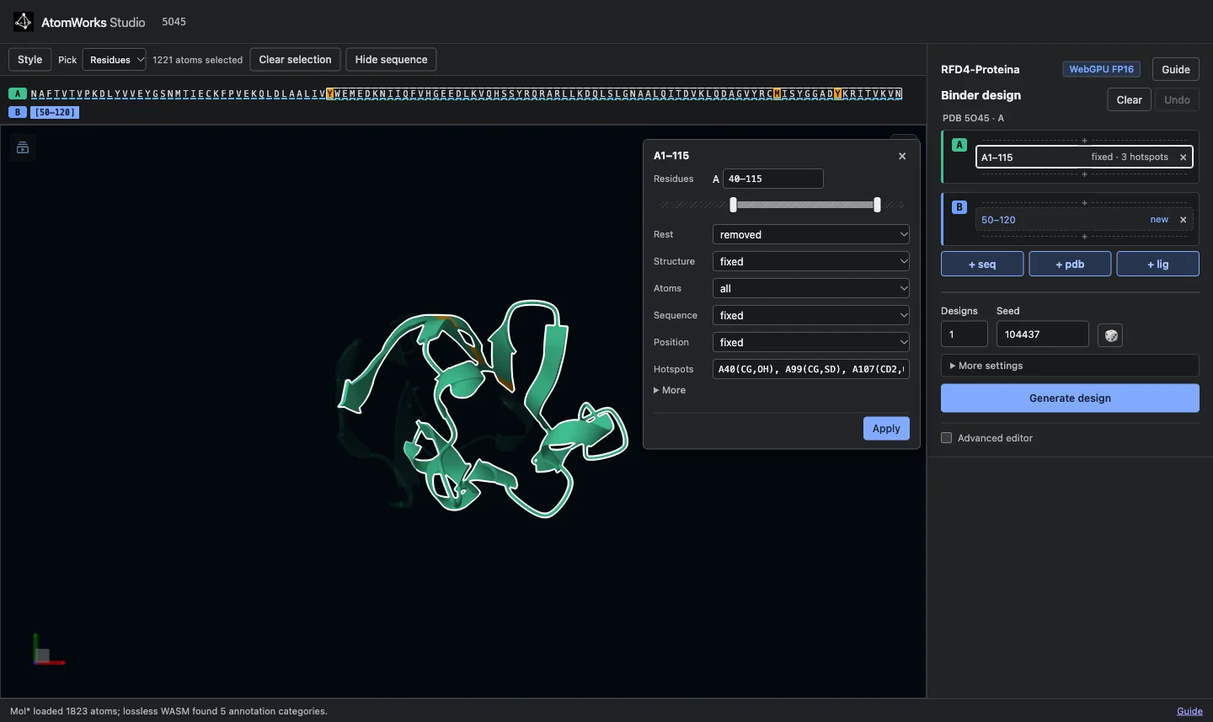
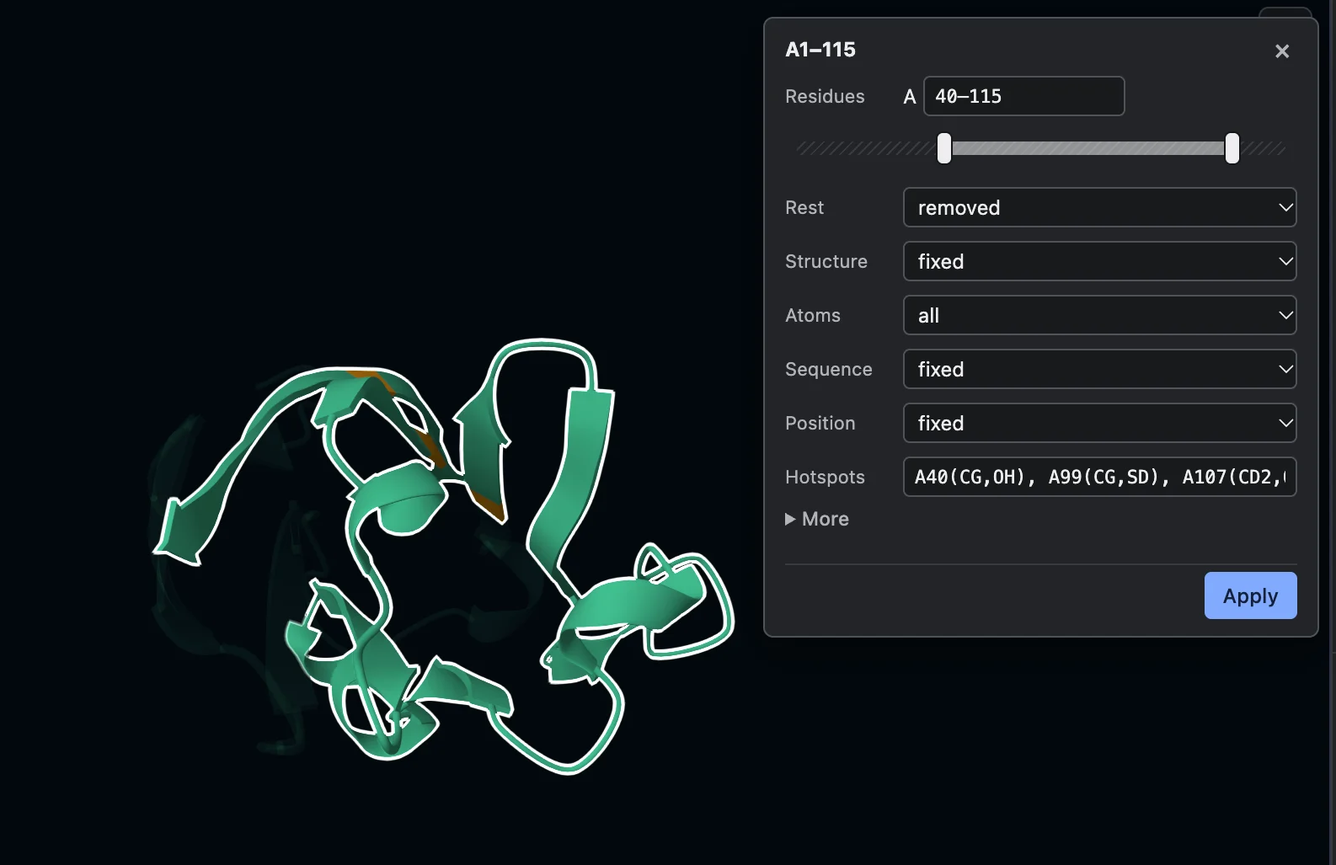
Guide shots cropped to what each section is about; motif shadow only for a small motif or residues placed anywhere

diff --git a/help/index.html b/help/index.html
@@ -42,7 +42,7 @@
   .swatch { display: inline-block; width: 12px; height: 12px; border-radius: 3px; vertical-align: -1px; margin-right: 6px; }
   figure { margin: 12px 0 16px; }
   figure img { display: block; width: 100%; height: auto; border: 1px solid var(--border); border-radius: 6px; }
-  figure.narrow img { max-width: 320px; }
+  figure.narrow img { max-width: 340px; }
   figcaption { margin-top: 6px; color: var(--muted); font-size: 13px; }
   .note { background: var(--surface); border: 1px solid var(--border); border-radius: 6px; padding: 10px 12px; font-size: 14px; }
   footer { margin-top: 48px; color: var(--muted); font-size: 13px; }
@@ -81,7 +81,7 @@
     <li>Chains are grouped under the structure they came from (<code>PDB 5O45 · A</code>); click that caption to swap the structure.</li>
     <li><span class="ui">Undo</span> steps back through every edit.</li>
   </ul>
-  <figure><img src="img/card.webp" alt="The protein binder example: PD-L1 in the viewer, its sequence above, and the card with chain A fixed with 3 hotspots and chain B as 50–120 new residues" loading="lazy"><figcaption>The binder example: the target kept with its hotspots (amber), a new chain of 50–120 residues to design.</figcaption></figure>
+  <figure class="narrow"><img src="img/card.webp" alt="The protein binder example: PD-L1 in the viewer, its sequence above, and the card with chain A fixed with 3 hotspots and chain B as 50–120 new residues" loading="lazy"><figcaption>The binder example's card: the target kept with three hotspots, a new chain of 50–120 residues to design.</figcaption></figure>
   <p>Every setting is <span class="ui">fixed</span> (kept as given) or <span class="ui">free</span> (the model decides).</p>
 
   <h2 id="pieces">Pieces</h2>
@@ -172,7 +172,7 @@
     <li><span class="ui">Save all (.zip)</span>: the input, every design with its trajectory, every refold, and the table as
       <code>summary.csv</code>.</li>
   </ul>
-  <figure><img src="img/designs.webp" alt="Three designs refolded and ranked in the Designs table" loading="lazy"><figcaption>Three designs from scratch, refolded and ranked: Design 1 passes (✓) and its refold (magenta) lies on it; the others are greyed out.</figcaption></figure>
+  <figure class="narrow"><img src="img/designs.webp" alt="Three designs refolded and ranked in the Designs table" loading="lazy"><figcaption>Three designs from scratch, refolded and ranked: Design 1 passes (✓); the others are greyed out.</figcaption></figure>
   <div class="table-wrap"><table>
     <tr><th>Column</th><th>Meaning</th><th>Better</th></tr>
     <tr><td>RMSD</td><td>Å between the design and its refold. For a binder or antibody, after fitting on the target, so where it sits counts.</td><td>lower</td></tr>

diff --git a/web/app.js b/web/app.js
@@ -210,6 +210,12 @@ function unmodelledTokens(inputAtoms) {
  * coordinate-conditioned is a target and is drawn by the frame itself. Placed on an unused chain id so it can never
  * share a residue key with the scaffold.
  */
+/**
+ * Whether a chain's held residues are a motif, worth showing against what the model builds: a few residues it scaffolds
+ * (1QJG's three), not a kept domain the job extends (6MRR and 100 new residues), whose shadow would only double it.
+ */
+const isSmallMotif = (fixed, total) => fixed > 0 && fixed < total && fixed <= total / 4;
+
 function buildMotifOverlayAtoms(inputAtoms) {
   if (!inputAtoms?.token_id || !inputAtoms.condition_coordinate_1_atom) return [];
   // Conditioned coordinates are centred in the batch; designs are shown in the input's frame, so the motif is too.
@@ -239,8 +245,9 @@ function buildMotifOverlayAtoms(inputAtoms) {
     if (tokenHasCrd.get(tid)) c.fixed += 1;
     chainTokens.set(chain, c);
   }
-  const isMotifToken = (tid) => tokenHasCrd.get(tid) &&
-    (!tokenIndexed.get(tid) || chainTokens.get(tokenChain.get(tid)).fixed < chainTokens.get(tokenChain.get(tid)).total);
+  // Residues placed anywhere always (an enzyme's catalytic tips); residues held in place only as a small motif.
+  const isMotifToken = (tid) => tokenHasCrd.get(tid) && (!tokenIndexed.get(tid)
+    || isSmallMotif(chainTokens.get(tokenChain.get(tid)).fixed, chainTokens.get(tokenChain.get(tid)).total));
   const used = new Set(tokenChain.values());
   const chainId = [...'MNOPQRSTUVWXYZ'].find((c) => !used.has(c)) ?? 'MOTIF';
   const out = [];
@@ -280,7 +287,7 @@ function motifSideChainAtoms(structureAtoms, skipTokens = new Set()) {
   }
   for (const tokens of chainTokens.values()) {
     const fixed = [...tokens].filter((t) => tokenFixed.get(t));
-    if (fixed.length < tokens.size) for (const t of fixed) motifTokens.add(t);
+    if (isSmallMotif(fixed.length, tokens.size)) for (const t of fixed) motifTokens.add(t);
   }
   if (!motifTokens.size) return [];
   return structureAtoms

diff --git a/index.html b/index.html
@@ -10,7 +10,7 @@
     <!-- This site serves the Studio bundle itself; its offline cache would pin stale assets on Pages. -->
     <meta name="atomworks-studio-service-worker" content="off" />
     <script src="https://cdnjs.cloudflare.com/ajax/libs/jszip/3.10.1/jszip.min.js"></script>
-    <link rel="stylesheet" href="./web/styles.css?v=88aa2bd1d9" />
+    <link rel="stylesheet" href="./web/styles.css?v=e1e9ade51c" />
     <!-- app.js first: its import of studio-api.js installs the /api/* fetch interceptor the Studio bundle boots against. -->
     <!-- module-versions:start (tools/stamp-modules.mjs) -->
     <script type="importmap">
@@ -38,7 +38,7 @@
           "./shared/rfd4p/presets.js": "./shared/rfd4p/presets.js?v=8db26644f7",
           "./shared/rfd4p/safetensors.js": "./shared/rfd4p/safetensors.js?v=816ee6d627",
           "./shared/rfd4p/vendor/fzstd.js": "./shared/rfd4p/vendor/fzstd.js?v=e6cdba40d4",
-          "./web/app.js": "./web/app.js?v=d387a5c921",
+          "./web/app.js": "./web/app.js?v=3d470bf159",
           "./web/design-panel.js": "./web/design-panel.js?v=59813db912",
           "./web/design-spec.js": "./web/design-spec.js?v=693bf27a92",
           "./web/guide-dialog.js": "./web/guide-dialog.js?v=df4c3ca412",
@@ -59,7 +59,7 @@
       }
     </script>
     <!-- module-versions:end -->
-    <script type="module" src="./web/app.js?v=d387a5c921"></script>
+    <script type="module" src="./web/app.js?v=3d470bf159"></script>
     <script type="module" crossorigin src="./assets/index-D56mv6bn.js"></script>
     <link rel="stylesheet" crossorigin href="./assets/index-CTn3vkIg.css">
   </head>

diff --git a/web/styles.css b/web/styles.css
@@ -1092,7 +1092,7 @@ body.rfd4p-building .rfd4p-piece-pop { visibility: hidden; }
 .rfd4p-guide-body .note { padding: 8px 10px; border: 1px solid var(--border, #383a3f); border-radius: 6px; font-size: 13px; }
 .rfd4p-guide-body figure { margin: 10px 0 14px; }
 .rfd4p-guide-body figure img { display: block; width: 100%; height: auto; border: 1px solid var(--border, #383a3f); border-radius: 6px; }
-.rfd4p-guide-body figure.narrow img { max-width: 300px; }
+.rfd4p-guide-body figure.narrow img { max-width: 340px; }
 .rfd4p-guide-body figcaption { margin-top: 4px; color: var(--muted); font-size: 12px; }
 .rfd4p-guide-body footer { margin-top: 28px; color: var(--muted); font-size: 12px; }
 

diff --git a/AGENTS.md b/AGENTS.md
@@ -21,7 +21,7 @@ Operational guide for coding agents working in `rfd4p` (WebGPU implementation of
    - `cpu/rfd4p/`: Deterministic float32 CPU reference implementations (`trunk.js`, `decoder.js`, `encoder.js`, `reference.js`).
    - `webgpu/rfd4p/`: Recorded-command-list WebGPU engine (`engine.js` with `64x128` and `32x64` bank-conflict-free `vec4` GEMMs, `16x16` `triGate`, 64M-float triangle chunking, and FP16 weight packing), shared token blocks (`blocks.js`), `Rfd4pTrunkGpu` (`trunk.js`), `Rfd4pDecoderGpu` (`decoder.js`), `Rfd4pEncoderGpu` (`encoder.js`), and `Rfd4pGeneratorGpu` (`generate.js`).
    - `web/`: Interactive browser studio (`index.html`, `web/app.js`, `web/studio-api.js`, `web/studio/`, `web/examples/*.cif.zst`) embedding the `nvidia/rfd4-proteina-zerogpu` / `AtomWorks Studio` interface (Mol* WebGL 3D viewer, sequence dock, condition popovers, live trajectory playback, and PDB/mmCIF/ZIP export) backed 100% client-side by WebGPU.
-   - `web/design-spec.js` (pure: task, chain roles, lengths and contig read from a document's conditions; tested in `test/design-spec.test.js`) and `web/design-panel.js` (start screen, Design panel, guided set-ups, simple/advanced switch). The panel lists each chain piece by piece in contig order (`designSpec(...).chains[].pieces`): `kept` (with a keep mode from `KEEP_MODES`: all, sequence, backbone, side chains, shape only; `anywhere` when unindexed; `source` when a set-up renumbered it), `designed` (in place) and `new` (a length range). Chains are grouped by where their coordinates come from (`_sourceGroups`: "PDB 1QJG", "PDB 5O45 chain A", "Nanobody (VHH) example"), one muted caption per source; clicking a caption opens the + pdb form to replace that source's chains; chains are listed in the job's order (the sequence bar's, which is the order they were added), chains made here (+ seq, + lig) uncaptioned in place. Each piece is a sub-card in its chain (chain letter on the left; the chain's × there once it has more than one item), residues (or a new piece's length) on the left and its state on the right ("A17–131 · fixed · 3 hotspots", "H99–109 · designed", "50–120 · new"), its own × to remove it; a "+" between sub-cards (not next to new residues) inserts 5–10 new residues there. Every option in the popups is fixed or free (free: the model decides; the internal values stay 'designed' and 'anywhere'), and every list ends with "free", Shape, Exposure, Interaction and Fold included; a ligand's pose is its Structure too. A residue popup (a sub-card's, or residues picked in the viewer or the sequence bar) shows, in front, its residue range (a sub-card's), Structure (fixed, rigid, free) with the Atoms it holds (all, backbone, side chains, or named: "CG, OD1"), Sequence (fixed, free) and Position in chain (fixed, free: an unindexed residue), with Structure and Sequence both free Length in Position's place, and a sub-card's Hotspots, the rest under More (`_moreFold`: Shape, Exposure, Interaction, and a sub-card's Keep only); there are no one-click buttons (they set four things at once and could not say "structure fixed, sequence free"). A sub-card's click also selects its residues in Studio while its popup is open (`_selectFromCard`, not the viewer's popup). A sub-card's Residues take one range or several ("1–40, 60–115"); once narrowed, Rest says what happens to the piece's residues outside them (removed, the default; free; unchanged, for changing part of a piece), the gaps between ranges are free, and Between gives them a length range, turning each into new residues (so a fetched chain is cut to a domain, or to two regions with a variable linker, in one popup); a Length other than the residue count turns them into new residues (`/segments/replace`), and the document remembers the residues they replaced (`segmentOrigins`, this page only; `segmentOrigin`, `restoreSegment`, `/segments/restore`; `test/segment-restore.test.js`): the new-residues popup then shows "was 7" beside Length and a Structure and Sequence, and the old count, or a fixed or rigid Structure or a fixed Sequence, brings them back in place with their coordinates and conditions, in one Undo; with partial diffusion ticked, its warning about new residues offers the same for all of them ("Back to the residues they replaced"), since partial diffusion starts from coordinates. A piece of a loaded chain has a crop bar under its Residues (`_cropBar`): the chain as it was loaded (`chainSources`, kept by a plain structure's `StudioDoc` and carried by `combine` and a chain rename; `sourceResidues`), the piece's ranges on it, the chain's other residues muted, a handle at each end; dragging in crops (Rest), dragging out brings residues back, up to the neighbouring piece and never past new residues (`restoreFromSource`, `/residues/restore`: as loaded, then given the popup's settings, those in gaps free). It only edits the Residues field, so typing a range past the piece does the same. As the ranges change (dragged or typed), the structure previews them (`_previewCut`): residues to be cut nearly vanish (`setHighlight('cut', …)`), those to be freed fade as free ones do, and only the residues kept stay selected; closing the popup clears it. Opening a sub-card's popup also brings its residues to the middle of the view, the zoom kept (`centerOn`, fork 12c2b78). Residues the model rebuilds (no atom held, not rigid) are faded in the input structure (`setHighlight('free', …, { transparency })`, fork f7a02ee), except with partial diffusion ticked, where they are its starting point. Hotspots (the chain's, from any of its pieces; a residue may name its atoms, "A56(CG,OH)", `parseResidueList`) and, under More, Keep only (the motif set-up, `/segments/scaffold`; the residues are kept in the order typed, "A38, A14, A99" reorders the motif and renumbers the chain as AtomWorks does, `_orderMotif`, each kept residue keeping its source ("A38", `annotation_src-component_1_atom`, display only: the pipeline rewrites it) so the card still names it by the entry; the kept residues take the popup's properties, so trimming an antibody chain and making it "rigid" is one popup). "Rigid" is one rigid group per source structure (`/internal-coords` `group_id`, `_rigidGroup(chain)`: chains from the same entry share a body), so an antibody's heavy and light frameworks keep their pairing and move as one, as upstream's current antibody example (Studio 0.0.6, MZB1/adalimumab Fv) and the model repo's VHH inputs are set (the Oct 19 example the demo Space ships had them as two bodies, since replaced), a framework split by CDRs moves as one, and chains from different entries move apart, and its saved targets are cleared (`/internal-coords/clear-targets`): the pipeline centres the body and turns it at random when the job is built (`materializeInternalCoords`), as AtomWorks does and the bundled examples are saved. A residue fixed "anywhere" with only some atoms held keeps only those atoms' coordinates, held atoms first in the residue (`/coordinates/clear`; a token is read from its first atom), as an enzyme benchmark's catalytic tips are given. Residues can be brought back from their source entry next to their neighbours (`/residues/insert`, `insertResiduesFrom`: one Undo, peptide and new-residue bonds rebuilt, an ordered motif's chain renumbered; `test/residue-insert.test.js`); nothing in the card uses it yet (a residue strip did, and was taken out for now). The chain letter opens the chain's popup: its name (`/chains`), its place in the job (`/chains/order`), which the model reads (chain and molecule ids, noise draws), and a fold for it (CATH, `cath_label`, `_foldField`: named folds such as ferredoxin-like 3.30.70, Rossmann-like 3.40.50, helix bundle 1.10, or any code; a new chain's is set on its new residues, which each take it; also in the new-residues popup, where a new chain is laid out). Superposition (`superimposeCoords3D`) is a rotation, never a reflection (`test/handedness.test.js`): it used to mirror whenever its eigenvectors came out left-handed, and a design with nothing held in place, aligned onto its first (noise) frame, was then shown as its mirror image, every helix left-handed, about half the time; the model's own estimate was right-handed throughout. A residue placed anywhere is read against all its atoms (`heldAtomsOf`, `allHeavyNames`), since only its held atoms keep coordinates, so its row names them ("A250 CG, OD1 fixed · position free"); a glycine joins a named-atoms or side-chain run it sits in, and an interaction is asked of each residue's side chain, or its CA when it has none. Under More, residues can also be asked a Shape (secondary structure: helix, strand, loop), an Exposure (RASA: buried, intermediate, exposed) and an Interaction their side chains (or the atoms named) should make (H-bond donor/acceptor, salt bridge, π-stacking, π-cation, hydrophobic, metal-coordinating) (`_extraFields`); new residues take Shape and Exposure. These were Advanced-editor only; pieces split where they differ and rows name them ("A20–30 designed · helix"). Residues selected in the viewer or the sequence bar open a shorter popup for the selection (`_renderPop`): Structure and Sequence ("mixed" where the selected pieces differ, left as each piece has it), Length for one free stretch, Hotspot and Include checkboxes (unticked, the selection is taken out of the job on Apply) and a ligand's Structure, with Atoms, Position, Shape, Exposure and Interaction under More (a pick shows little at first), so fixed regions are grown, shrunk, freed or cut from the structure itself (a motif by hand: pick the residues around it, Structure and Sequence free, a Length); several pieces change in one edit (`_applyPieces`), one Undo. Ligands: Structure fixed or free, swap. New residues: Length, Shape, Exposure and the chain's Fold. More folds only four rows or more; fewer are shown as they are (`_moreFold`). Popups close with the × in their title (top right; a viewer pick's also lets go of the selection), Escape or a click outside, and move by their title bar (`_movable`): once moved, every popup opens where the last was left, kept on screen, until a reload (`popSpot`); Apply sits at the bottom, always in sight. A "+" sits between any two pieces and at both ends, new residues included, so a free chain is built as blocks of different lengths and shapes (20 helix · 6 loop · 20 strand). New residues inserted inside a chain do not renumber it: with no numbering gap the placeholder takes the residue before's number plus an insertion code (`insertSegment`, "40A"), and `realizeExpandableSegments` numbers past it, so the batch and the design are numbered exactly as the old renumber-the-rest rule made them (`test/insert-numbering.test.js`). A design therefore numbers residues after an insertion further along than the input; hotspots on designs are matched through each sample's batch atoms for that reason. A plain structure (PDB ID, optionally with the chains to keep, "1J79 A C E"; a file; "+ pdb") opens with everything fixed, without buffer ions (NA, CL, on top of AtomWorks' additive list) and with its ligands' formal charges from the CCD (RCSB entries list their components' atoms without charges, `componentsNeedingCcd`); a prepared document drops the file's text (`rawCif`), so its CIF, for the viewer and for a run, is the prepared one from the first frame (`StudioDoc`, rcsb preset; `test/fetch-defaults.test.js`), so a set-up starts from what was loaded and marks what to design; Keep only takes the popup's Structure, Atoms and Position (CG, OD1 + anywhere is an enzyme site), and ticking partial diffusion with nothing designed frees every chain. "Blueprint" draws a ferredoxin-like fold as blocks (β 6 · loop 3 · α 14 · loop 3 · β 6 · loop 3 · β 6 · loop 3 · α 14 · loop 3 · β 6) from the bundled empty chain (`start`, `blocks` steps; no download); a design follows it (helix blocks Cα i→i+3 5.1 Å and right-handed, strands 10 Å). The start screen starts a job from its parts with the design view's own row, + seq (a free chain of 60–100, from the bundled empty chain), + pdb (the PDB ID / file form) and + lig (a ligand by its code), each opening a new document (`_startNew`), and under it the Examples (a heading, not a question: nothing there has to be picked). Start-screen examples are recipes (`TASKS[].recipe`): each fetches its PDB entry (5O45, 1XVA, 1QJG, 1J79, 1N8Z, 4Z18 + 3EAK, 2KL8, in label numbering; an entry's chains come from its first biological assembly that has them, `_openEntry`) and reproduces the bundled Studio example of the same name in everything the model reads (batch features compared tensor by tensor; the motif is identical, the antibody too but for two deliberate changes, its heavy and light chains one rigid body and their fold Ig-like (CATH 2.60.40, recipe `{ chain, fold }`), as upstream's examples now are; both 2KL8 examples keep residues 1–79 (all of it but the His tag), where the bundled file drops 8–27, a bug in it; the rest differ only where the bundled file's coordinates did not come from the deposited entry: the binder's rebuilt side chains, the SAM conformer, the nanobody framework's saved orientation, and 0.001 Å rounding in the enzyme) and builds the set-up with the card's own controls in a session Studio does not show (`_buildRecipe`: `buildSession`, whose edits go straight to `handleStudioApiRequest`, so the viewer is not redrawn per step; popups hidden by `body.rfd4p-building`), then opens it once, finished, with no Undo history; offline, the bundled Studio example opens instead ("Protein from scratch" always does). Source captions read "PDB 5O45 · A" (entry and its chains in the job; the entry's `_struct.title` when pointed at). Designs and live frames are put back in the input's frame (the pipeline centres the conditioned coordinates for the model and records `center_shift`; `processSampleToAtoms` adds it back after aligning), so a fetched target does not jump when a run starts. During a run the hotspot highlight follows the job's numbering (`app.liveHotspotKeys`, res_id past any new residues), since live frames are numbered that way. Otherwise hotspots are highlighted in the viewer by `auth_seq_id`, which is how the document's CIF numbers residues for Mol* (a fetched entry keeps its authors' numbering there; `res_id` is the label numbering). There are no separate guided set-ups; partial diffusion is a line under the run settings' More settings, which open whenever it is turned on, so it is never on out of sight (one control: the checkbox and its noise %, 40% by default, `partial_trajectory_fraction_steps` 0.4 as upstream's Space runs its partial-diffusion example). A job whose every chain keeps its backbone with its sequence free (the card's "Redesign sequence", `task.key === 'inverse'`) runs the inverse-folding sampler (`resampled_forward_marginal`), as the Space does for that task (`generation=inverse_folding`): the backbone comes back as given (Cα within 0.02 Å), only sequence and side chains sampled. The encoder treats an atom without coordinates (a side chain an entry did not resolve) as absent (`encoderSeqFeatures`), or its NaN reached every latent and partial diffusion of such an entry (6MRR) gave a design with no atoms. Hotspots are a chip on a kept piece (`parseResidueList` / `formatResidueList`). Ligands are added ("+ lig") or swapped (a ligand's Edit menu) by their CCD code: `web/ligand-ccd.js` turns the dictionary entry's ideal coordinates into a one-residue mmCIF, merged in with its pose free. "+ seq", "+ pdb" and "+ lig" add a designed chain, chains from a PDB entry or file, or a ligand; merged in as kept chains through `/combine` (a source caption replaces that source instead), so an example is edited the same way a set-up is built from scratch. The panel edits documents only through `window.__rfd4pMutate`, so Undo and Studio refreshes work as for Studio's own edits.
+   - `web/design-spec.js` (pure: task, chain roles, lengths and contig read from a document's conditions; tested in `test/design-spec.test.js`) and `web/design-panel.js` (start screen, Design panel, guided set-ups, simple/advanced switch). The panel lists each chain piece by piece in contig order (`designSpec(...).chains[].pieces`): `kept` (with a keep mode from `KEEP_MODES`: all, sequence, backbone, side chains, shape only; `anywhere` when unindexed; `source` when a set-up renumbered it), `designed` (in place) and `new` (a length range). Chains are grouped by where their coordinates come from (`_sourceGroups`: "PDB 1QJG", "PDB 5O45 chain A", "Nanobody (VHH) example"), one muted caption per source; clicking a caption opens the + pdb form to replace that source's chains; chains are listed in the job's order (the sequence bar's, which is the order they were added), chains made here (+ seq, + lig) uncaptioned in place. Each piece is a sub-card in its chain (chain letter on the left; the chain's × there once it has more than one item), residues (or a new piece's length) on the left and its state on the right ("A17–131 · fixed · 3 hotspots", "H99–109 · designed", "50–120 · new"), its own × to remove it; a "+" between sub-cards (not next to new residues) inserts 5–10 new residues there. Every option in the popups is fixed or free (free: the model decides; the internal values stay 'designed' and 'anywhere'), and every list ends with "free", Shape, Exposure, Interaction and Fold included; a ligand's pose is its Structure too. A residue popup (a sub-card's, or residues picked in the viewer or the sequence bar) shows, in front, its residue range (a sub-card's), Structure (fixed, rigid, free) with the Atoms it holds (all, backbone, side chains, or named: "CG, OD1"), Sequence (fixed, free) and Position in chain (fixed, free: an unindexed residue), with Structure and Sequence both free Length in Position's place, and a sub-card's Hotspots, the rest under More (`_moreFold`: Shape, Exposure, Interaction, and a sub-card's Keep only); there are no one-click buttons (they set four things at once and could not say "structure fixed, sequence free"). A sub-card's click also selects its residues in Studio while its popup is open (`_selectFromCard`, not the viewer's popup). A sub-card's Residues take one range or several ("1–40, 60–115"); once narrowed, Rest says what happens to the piece's residues outside them (removed, the default; free; unchanged, for changing part of a piece), the gaps between ranges are free, and Between gives them a length range, turning each into new residues (so a fetched chain is cut to a domain, or to two regions with a variable linker, in one popup); a Length other than the residue count turns them into new residues (`/segments/replace`), and the document remembers the residues they replaced (`segmentOrigins`, this page only; `segmentOrigin`, `restoreSegment`, `/segments/restore`; `test/segment-restore.test.js`): the new-residues popup then shows "was 7" beside Length and a Structure and Sequence, and the old count, or a fixed or rigid Structure or a fixed Sequence, brings them back in place with their coordinates and conditions, in one Undo; with partial diffusion ticked, its warning about new residues offers the same for all of them ("Back to the residues they replaced"), since partial diffusion starts from coordinates. A piece of a loaded chain has a crop bar under its Residues (`_cropBar`): the chain as it was loaded (`chainSources`, kept by a plain structure's `StudioDoc` and carried by `combine` and a chain rename; `sourceResidues`), the piece's ranges on it, the chain's other residues muted, a handle at each end; dragging in crops (Rest), dragging out brings residues back, up to the neighbouring piece and never past new residues (`restoreFromSource`, `/residues/restore`: as loaded, then given the popup's settings, those in gaps free). It only edits the Residues field, so typing a range past the piece does the same. As the ranges change (dragged or typed), the structure previews them (`_previewCut`): residues to be cut nearly vanish (`setHighlight('cut', …)`), those to be freed fade as free ones do, and only the residues kept stay selected; closing the popup clears it. Opening a sub-card's popup also brings its residues to the middle of the view, the zoom kept (`centerOn`, fork 12c2b78). During a run and on a finished design, the held coordinates of a motif are drawn as a grey reference (`buildMotifOverlayAtoms`, `motifSideChainAtoms`): residues placed anywhere always, residues held in place only when they are a quarter of their chain or less (`isSmallMotif`: 1QJG's three, not a kept domain extended by new residues, which would only be drawn twice). Residues the model rebuilds (no atom held, not rigid) are faded in the input structure (`setHighlight('free', …, { transparency })`, fork f7a02ee), except with partial diffusion ticked, where they are its starting point. Hotspots (the chain's, from any of its pieces; a residue may name its atoms, "A56(CG,OH)", `parseResidueList`) and, under More, Keep only (the motif set-up, `/segments/scaffold`; the residues are kept in the order typed, "A38, A14, A99" reorders the motif and renumbers the chain as AtomWorks does, `_orderMotif`, each kept residue keeping its source ("A38", `annotation_src-component_1_atom`, display only: the pipeline rewrites it) so the card still names it by the entry; the kept residues take the popup's properties, so trimming an antibody chain and making it "rigid" is one popup). "Rigid" is one rigid group per source structure (`/internal-coords` `group_id`, `_rigidGroup(chain)`: chains from the same entry share a body), so an antibody's heavy and light frameworks keep their pairing and move as one, as upstream's current antibody example (Studio 0.0.6, MZB1/adalimumab Fv) and the model repo's VHH inputs are set (the Oct 19 example the demo Space ships had them as two bodies, since replaced), a framework split by CDRs moves as one, and chains from different entries move apart, and its saved targets are cleared (`/internal-coords/clear-targets`): the pipeline centres the body and turns it at random when the job is built (`materializeInternalCoords`), as AtomWorks does and the bundled examples are saved. A residue fixed "anywhere" with only some atoms held keeps only those atoms' coordinates, held atoms first in the residue (`/coordinates/clear`; a token is read from its first atom), as an enzyme benchmark's catalytic tips are given. Residues can be brought back from their source entry next to their neighbours (`/residues/insert`, `insertResiduesFrom`: one Undo, peptide and new-residue bonds rebuilt, an ordered motif's chain renumbered; `test/residue-insert.test.js`); nothing in the card uses it yet (a residue strip did, and was taken out for now). The chain letter opens the chain's popup: its name (`/chains`), its place in the job (`/chains/order`), which the model reads (chain and molecule ids, noise draws), and a fold for it (CATH, `cath_label`, `_foldField`: named folds such as ferredoxin-like 3.30.70, Rossmann-like 3.40.50, helix bundle 1.10, or any code; a new chain's is set on its new residues, which each take it; also in the new-residues popup, where a new chain is laid out). Superposition (`superimposeCoords3D`) is a rotation, never a reflection (`test/handedness.test.js`): it used to mirror whenever its eigenvectors came out left-handed, and a design with nothing held in place, aligned onto its first (noise) frame, was then shown as its mirror image, every helix left-handed, about half the time; the model's own estimate was right-handed throughout. A residue placed anywhere is read against all its atoms (`heldAtomsOf`, `allHeavyNames`), since only its held atoms keep coordinates, so its row names them ("A250 CG, OD1 fixed · position free"); a glycine joins a named-atoms or side-chain run it sits in, and an interaction is asked of each residue's side chain, or its CA when it has none. Under More, residues can also be asked a Shape (secondary structure: helix, strand, loop), an Exposure (RASA: buried, intermediate, exposed) and an Interaction their side chains (or the atoms named) should make (H-bond donor/acceptor, salt bridge, π-stacking, π-cation, hydrophobic, metal-coordinating) (`_extraFields`); new residues take Shape and Exposure. These were Advanced-editor only; pieces split where they differ and rows name them ("A20–30 designed · helix"). Residues selected in the viewer or the sequence bar open a shorter popup for the selection (`_renderPop`): Structure and Sequence ("mixed" where the selected pieces differ, left as each piece has it), Length for one free stretch, Hotspot and Include checkboxes (unticked, the selection is taken out of the job on Apply) and a ligand's Structure, with Atoms, Position, Shape, Exposure and Interaction under More (a pick shows little at first), so fixed regions are grown, shrunk, freed or cut from the structure itself (a motif by hand: pick the residues around it, Structure and Sequence free, a Length); several pieces change in one edit (`_applyPieces`), one Undo. Ligands: Structure fixed or free, swap. New residues: Length, Shape, Exposure and the chain's Fold. More folds only four rows or more; fewer are shown as they are (`_moreFold`). Popups close with the × in their title (top right; a viewer pick's also lets go of the selection), Escape or a click outside, and move by their title bar (`_movable`): once moved, every popup opens where the last was left, kept on screen, until a reload (`popSpot`); Apply sits at the bottom, always in sight. A "+" sits between any two pieces and at both ends, new residues included, so a free chain is built as blocks of different lengths and shapes (20 helix · 6 loop · 20 strand). New residues inserted inside a chain do not renumber it: with no numbering gap the placeholder takes the residue before's number plus an insertion code (`insertSegment`, "40A"), and `realizeExpandableSegments` numbers past it, so the batch and the design are numbered exactly as the old renumber-the-rest rule made them (`test/insert-numbering.test.js`). A design therefore numbers residues after an insertion further along than the input; hotspots on designs are matched through each sample's batch atoms for that reason. A plain structure (PDB ID, optionally with the chains to keep, "1J79 A C E"; a file; "+ pdb") opens with everything fixed, without buffer ions (NA, CL, on top of AtomWorks' additive list) and with its ligands' formal charges from the CCD (RCSB entries list their components' atoms without charges, `componentsNeedingCcd`); a prepared document drops the file's text (`rawCif`), so its CIF, for the viewer and for a run, is the prepared one from the first frame (`StudioDoc`, rcsb preset; `test/fetch-defaults.test.js`), so a set-up starts from what was loaded and marks what to design; Keep only takes the popup's Structure, Atoms and Position (CG, OD1 + anywhere is an enzyme site), and ticking partial diffusion with nothing designed frees every chain. "Blueprint" draws a ferredoxin-like fold as blocks (β 6 · loop 3 · α 14 · loop 3 · β 6 · loop 3 · β 6 · loop 3 · α 14 · loop 3 · β 6) from the bundled empty chain (`start`, `blocks` steps; no download); a design follows it (helix blocks Cα i→i+3 5.1 Å and right-handed, strands 10 Å). The start screen starts a job from its parts with the design view's own row, + seq (a free chain of 60–100, from the bundled empty chain), + pdb (the PDB ID / file form) and + lig (a ligand by its code), each opening a new document (`_startNew`), and under it the Examples (a heading, not a question: nothing there has to be picked). Start-screen examples are recipes (`TASKS[].recipe`): each fetches its PDB entry (5O45, 1XVA, 1QJG, 1J79, 1N8Z, 4Z18 + 3EAK, 2KL8, in label numbering; an entry's chains come from its first biological assembly that has them, `_openEntry`) and reproduces the bundled Studio example of the same name in everything the model reads (batch features compared tensor by tensor; the motif is identical, the antibody too but for two deliberate changes, its heavy and light chains one rigid body and their fold Ig-like (CATH 2.60.40, recipe `{ chain, fold }`), as upstream's examples now are; both 2KL8 examples keep residues 1–79 (all of it but the His tag), where the bundled file drops 8–27, a bug in it; the rest differ only where the bundled file's coordinates did not come from the deposited entry: the binder's rebuilt side chains, the SAM conformer, the nanobody framework's saved orientation, and 0.001 Å rounding in the enzyme) and builds the set-up with the card's own controls in a session Studio does not show (`_buildRecipe`: `buildSession`, whose edits go straight to `handleStudioApiRequest`, so the viewer is not redrawn per step; popups hidden by `body.rfd4p-building`), then opens it once, finished, with no Undo history; offline, the bundled Studio example opens instead ("Protein from scratch" always does). Source captions read "PDB 5O45 · A" (entry and its chains in the job; the entry's `_struct.title` when pointed at). Designs and live frames are put back in the input's frame (the pipeline centres the conditioned coordinates for the model and records `center_shift`; `processSampleToAtoms` adds it back after aligning), so a fetched target does not jump when a run starts. During a run the hotspot highlight follows the job's numbering (`app.liveHotspotKeys`, res_id past any new residues), since live frames are numbered that way. Otherwise hotspots are highlighted in the viewer by `auth_seq_id`, which is how the document's CIF numbers residues for Mol* (a fetched entry keeps its authors' numbering there; `res_id` is the label numbering). There are no separate guided set-ups; partial diffusion is a line under the run settings' More settings, which open whenever it is turned on, so it is never on out of sight (one control: the checkbox and its noise %, 40% by default, `partial_trajectory_fraction_steps` 0.4 as upstream's Space runs its partial-diffusion example). A job whose every chain keeps its backbone with its sequence free (the card's "Redesign sequence", `task.key === 'inverse'`) runs the inverse-folding sampler (`resampled_forward_marginal`), as the Space does for that task (`generation=inverse_folding`): the backbone comes back as given (Cα within 0.02 Å), only sequence and side chains sampled. The encoder treats an atom without coordinates (a side chain an entry did not resolve) as absent (`encoderSeqFeatures`), or its NaN reached every latent and partial diffusion of such an entry (6MRR) gave a design with no atoms. Hotspots are a chip on a kept piece (`parseResidueList` / `formatResidueList`). Ligands are added ("+ lig") or swapped (a ligand's Edit menu) by their CCD code: `web/ligand-ccd.js` turns the dictionary entry's ideal coordinates into a one-residue mmCIF, merged in with its pose free. "+ seq", "+ pdb" and "+ lig" add a designed chain, chains from a PDB entry or file, or a ligand; merged in as kept chains through `/combine` (a source caption replaces that source instead), so an example is edited the same way a set-up is built from scratch. The panel edits documents only through `window.__rfd4pMutate`, so Undo and Studio refreshes work as for Studio's own edits.
    - AtomWorks Studio is **not vendored**. `studio.json` pins the release; `npm run build:studio` downloads that bundle, verifies its sha256, copies it into `assets/` and composes `index.html` from Studio's own page plus the two fragments this repo owns (`web/page/head.html`, `web/page/card.html`). Never hand-edit `assets/` or `index.html` — both are build output. Live frames, overlays, sessions, edits, the selection, chain colours and live mode go through Studio's documented embedding API, `window.atomworksStudio`. To try an unreleased Studio: `npm run build:studio -- --from <path-to-bundle>`. **Right now the site runs an unreleased Studio**: `studio.json` `override` names the commit (sokrypton/atomworks-studio `live-frame-cartoon`: cartoon overlays, RosettaCommons/atomworks-studio#29, live frames drawn as cartoon plus ligands, `setHighlight`, which the panel uses to colour hotspots in the target's own cartoon, Show/Hide sequence in the viewer toolbar with no sequence-dock heading, `setSelection`, and residue picking by default with a clicked residue shown on its own: Mol*'s focus without its 5 Å surroundings, interactions or camera jump, and following the selection, so deselecting leaves no sticks behind (whole residues selected are only outlined on the cartoon; atoms picked show their residues in sticks, c17a919), and `closeDocument`, which Clear uses to empty the viewer and the sequence without a reload or a confirmation, keeping the session for Back, and `setHighlight` with a `transparency`, which fades residues instead of colouring them, and `centerOn`, which pans the view to atoms), and `build:studio` refuses a plain release rebuild until `override` is removed after a release contains it.
    - Guide: `help/index.html` is this site's guide (start, the card, pieces, picking, chains, colours, running, Designs, examples, words), a page of its own and, through `web/guide-dialog.js`, a popup over the designer (the card's Guide button and the footer's Guide link); Studio's own guide stays at `guide/`, linked from it. Its screenshots (`help/img/*.webp`) come from `node tools/guide-shots.mjs [scene]` (headless Chrome over its DevTools protocol, each scene set up through the page; `designs` runs the model and an OpenBind-0 refold). Change the guide, and retake the shots, when the interface changes.
    - Designs (`web/app.js` `_renderDesigns`): every design of the runs on the current input is a row of one table (Input first; each new run's designs numbered on from the last, earlier runs kept and folded away under "Run n · seeds"; a different input starts over), each with ⟳ (refold it) and ⤓ (its CIF); clicking a row shows it. While a run goes, the Generate button is its progress (Stop · design k of n · step s/60, filling up) and the status line under it is for what is not progress. Refold all (or Stop) refolds every design not yet refolded with the chosen model, one after another, rows saying queued / refolding… and filling in: RMSD, pLDDT, and for an interface ipTM and min iPAE (`refoldMetrics`: the min iPAE from the refold's PAE, polymer tokens first in file order as LocalFold reads them, `polymerChains`; the RMSD of a binder or antibody is upstream's target-aligned one, from the refold's per-residue `deviations`, which LocalFold measures after fitting on every other chain). A ✓ marks designs that meet the model's own pass criteria (`PASS_CRITERIA`, from RFD4-Proteina `configs/metrics/pass_criteria`: monomer, binder, antibody; motif, enzyme and small-molecule jobs get numbers but no verdict, as they also need motif and ligand RMSDs not computed here), failing rows are greyed, and rows rank passing first by the job's first criterion (`rankKey`) until a column head is clicked. Save all (.zip) carries every run, with the same numbers in summary.csv (`web/results-zip.js`).
